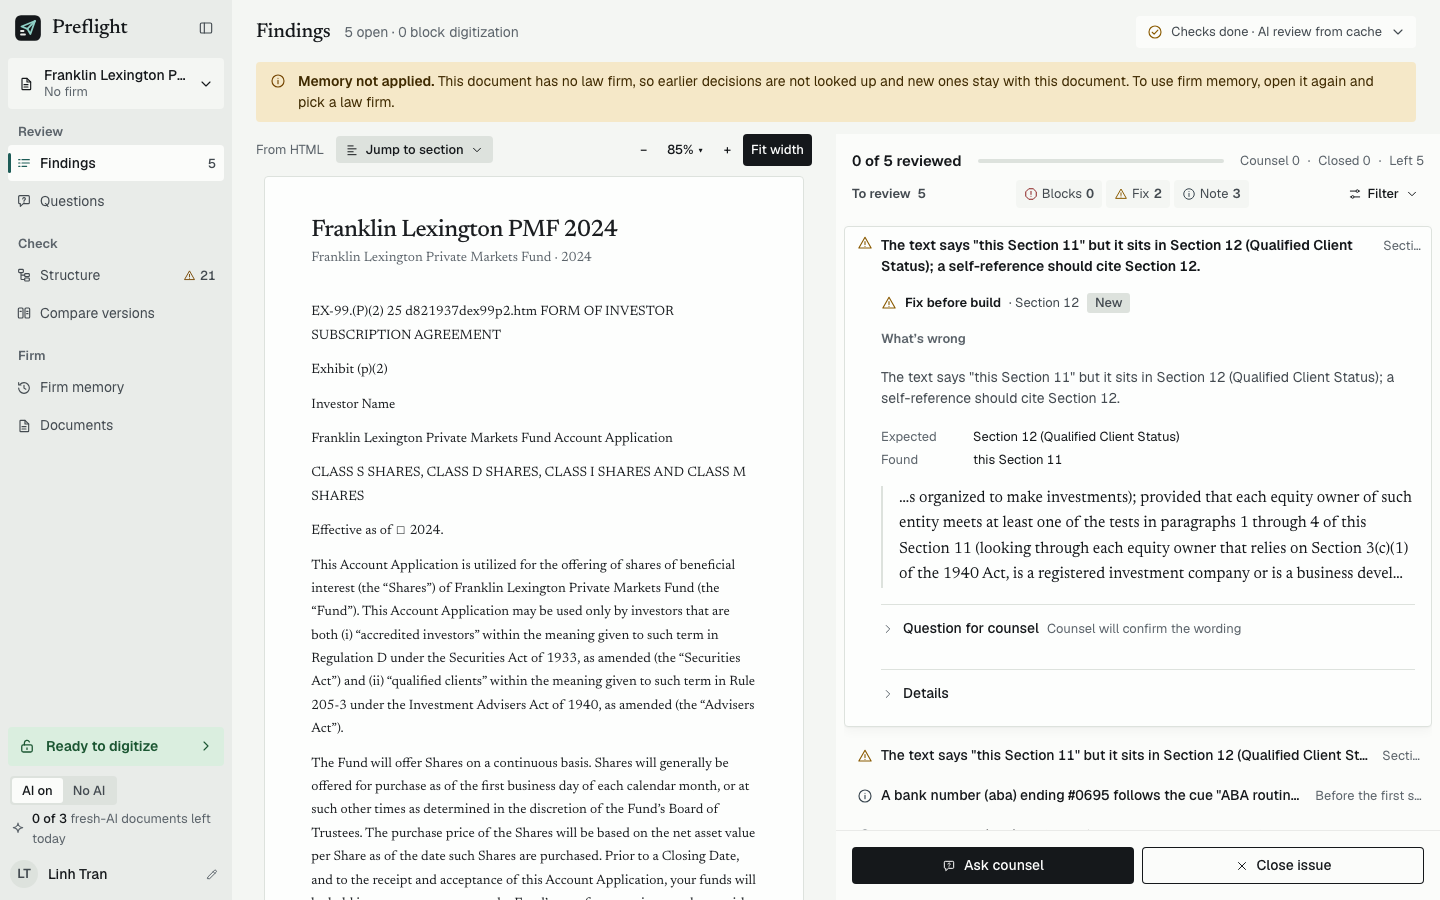
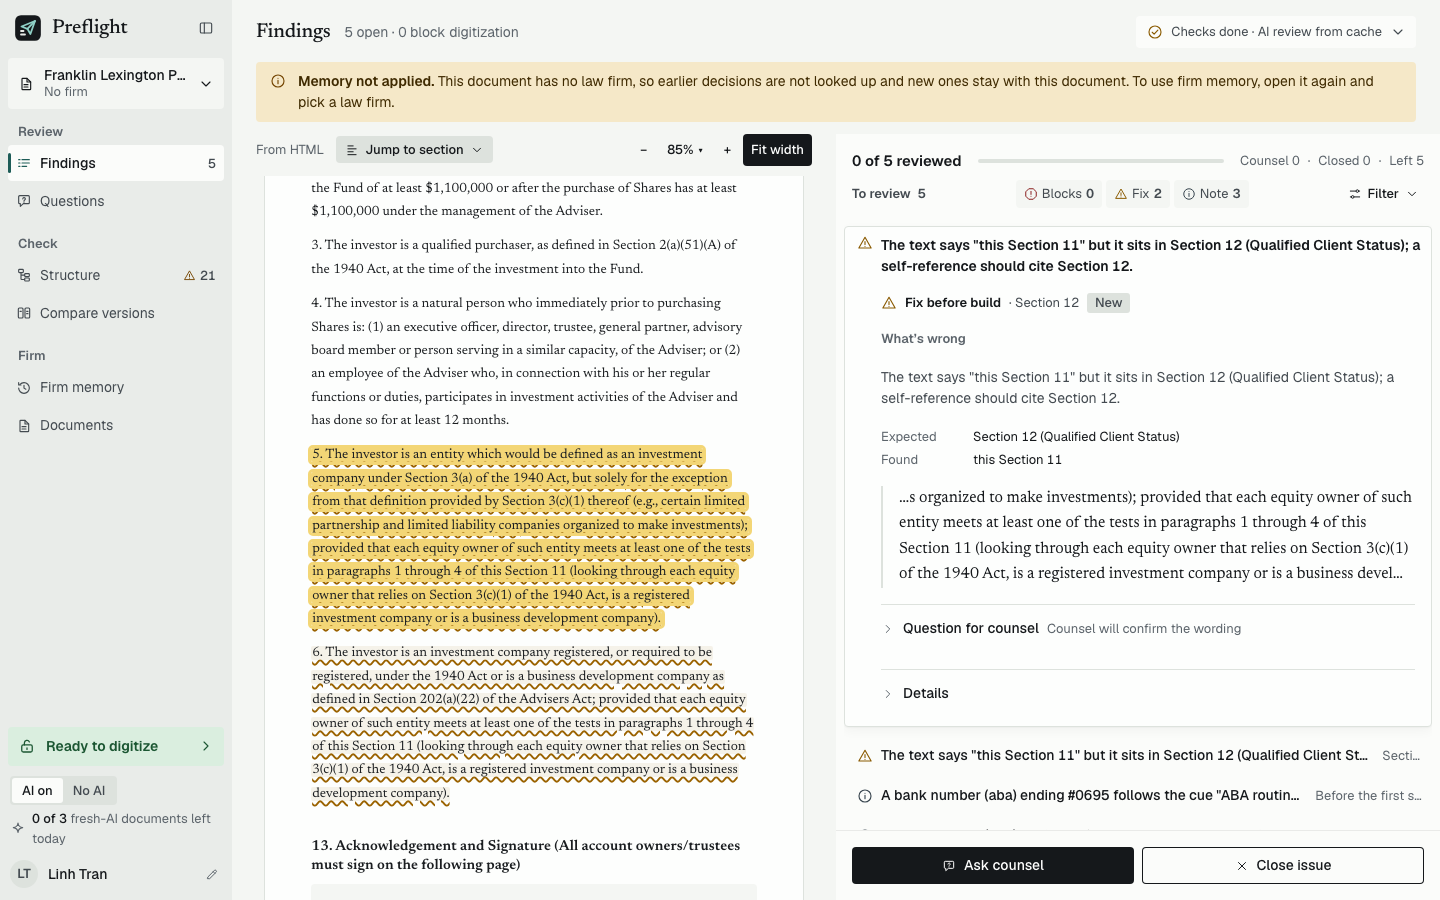
process: findings v2 open-row location live (493f2501)

Changed region(s): [[0.1875, 0.1867, 0.5312, 1.0], [0.5938, 0.28, 0.8438, 0.3111], [0.9375, 0.2489, 1.0, 0.28]]

diff --git a/process/context/all-context.md b/process/context/all-context.md
@@ -1,6 +1,6 @@
 # aduin-transaction - All Context
 
-Last updated: 2026-10-18 (Findings v2 85% fit width, live f54aa9f6; earlier: Findings v2 fit width fix, live cd06402a; earlier: Findings v2 design polish, live d6f88c56; earlier: Findings v2 closeout, live 7db9e602; earlier: Variance Management program closeout, live d9aaddd9; earlier: ai-review-stream-dedup UPDATE PROCESS, live 8a82ead2; earlier: Intake post-closeout fix 8db9245, Variance Phase 01 UPDATE PROCESS)
+Last updated: 2026-10-18 (Findings v2 open-row location, live 493f2501; earlier: Findings v2 85% fit width, live f54aa9f6; earlier: Findings v2 fit width fix, live cd06402a; earlier: Findings v2 design polish, live d6f88c56; earlier: Findings v2 closeout, live 7db9e602; earlier: Variance Management program closeout, live d9aaddd9; earlier: ai-review-stream-dedup UPDATE PROCESS, live 8a82ead2; earlier: Intake post-closeout fix 8db9245, Variance Phase 01 UPDATE PROCESS)
 
 This file is the root context entrypoint for the repo.
 
@@ -24,7 +24,7 @@ Target user: Anduin's Digitization Service Analyst. Deliverables: live demo, REA
 
 Domain knowledge, defect taxonomy, competitors and product decisions: `process/context/product-domain.md`.
 
-**Live demo (program COMPLETE, 17-10-26):** https://aduin-transaction-web.giathaowork.workers.dev (Worker `aduin-transaction-web`, version `f54aa9f6-111e-4e4d-9c2f-5796f2469a65` (18-10-26, Findings v2 85% fit width + long-string wrap, web assets from main 6244fb7 + 6ee7195; Worker code and D1 unchanged); rollback chain `cd06402a` (fit width fix, 8fcd893) -> `d6f88c56` (design polish, 2df83fe) -> `7db9e602` (Findings v2, 4c39a5a) -> `d9aaddd9` (Variance, schema 6) -> `8a82ead2` (write-incompatible with schema 6, do not use) -> `b04f1a8c` -> `3d2c7301` -> `cde74507` -> `328ca295` -> `09e7a579` -> `47d98295` -> `23612b12`; `ecb11588` failed live check and was rolled back, never use). Real D1 `aduin-transaction-db` (migrations 0001-0005, demo seed), Turnstile widget live, enforced CSP and security headers, `/api/health` no-store. Findings render in about 1 s without waiting for Turnstile. AI and OCR need a Turnstile token (a human in a real browser; automated Chromium got one automatically on 18-10-26 but not in earlier runs), so the live AI/OCR sweep, AC51 echo and D4 burst are operator-run residuals in backlog. **Fund Package Intake (program COMPLETE with known gaps, 17-10-26; feature folder `process/features/fund-package-intake/`):** the Upload modal takes a whole package (up to 12 files, 40 MB), detects each file's type and role with a stated reason, asks the analyst to confirm unsure ones, resolves outside references ("LPA", "Annex F", W-8BEN-E) against the package, stops false undefined-term findings when the LPA defines the term, shows per-check coverage next to the gate, and puts one "For the GP" request for every missing document in Questions. No new screens. 13 detectors / 15 issue classes plus package-level checks (references, cross-document terms, coverage). Live AI/OCR spend so far: $0 (Intake made 0 model calls). Deploy rules and recipe: `process/context/worker/all-worker.md`.
+**Live demo (program COMPLETE, 17-10-26):** https://aduin-transaction-web.giathaowork.workers.dev (Worker `aduin-transaction-web`, version `493f2501-8920-43b5-95fd-e0878877ab1f` (18-10-26, Findings v2 open row hides its location, web assets from main b00241f; Worker code and D1 unchanged); rollback chain `f54aa9f6` (85% fit width, 6244fb7 + 6ee7195) -> `cd06402a` (fit width fix, 8fcd893) -> `d6f88c56` (design polish, 2df83fe) -> `7db9e602` (Findings v2, 4c39a5a) -> `d9aaddd9` (Variance, schema 6) -> `8a82ead2` (write-incompatible with schema 6, do not use) -> `b04f1a8c` -> `3d2c7301` -> `cde74507` -> `328ca295` -> `09e7a579` -> `47d98295` -> `23612b12`; `ecb11588` failed live check and was rolled back, never use). Real D1 `aduin-transaction-db` (migrations 0001-0005, demo seed), Turnstile widget live, enforced CSP and security headers, `/api/health` no-store. Findings render in about 1 s without waiting for Turnstile. AI and OCR need a Turnstile token (a human in a real browser; automated Chromium got one automatically on 18-10-26 but not in earlier runs), so the live AI/OCR sweep, AC51 echo and D4 burst are operator-run residuals in backlog. **Fund Package Intake (program COMPLETE with known gaps, 17-10-26; feature folder `process/features/fund-package-intake/`):** the Upload modal takes a whole package (up to 12 files, 40 MB), detects each file's type and role with a stated reason, asks the analyst to confirm unsure ones, resolves outside references ("LPA", "Annex F", W-8BEN-E) against the package, stops false undefined-term findings when the LPA defines the term, shows per-check coverage next to the gate, and puts one "For the GP" request for every missing document in Questions. No new screens. 13 detectors / 15 issue classes plus package-level checks (references, cross-document terms, coverage). Live AI/OCR spend so far: $0 (Intake made 0 model calls). Deploy rules and recipe: `process/context/worker/all-worker.md`.
 
 ---
 
@@ -258,7 +258,7 @@ Resolved: persistence is D1 (real `aduin-transaction-db`, live); Turnstile is li
 - **Variance program (feature `variance-management`, COMPLETE with known gaps, 18-10-26):** all 5 phases VERIFIED and LIVE (see next bullet); core engine in `packages/core/src/variance/` (`process/context/engine/all-engine.md`).
 - **Program status:** all phases are DONE (00-07, 08, 08b, 09, 10); Milestone 1 closed and live. No further phase is planned. Fund Package Intake (4 phases, `process/features/fund-package-intake/`) is also COMPLETE and live; its folder stays in `active/` until the operator residuals run. Test counts after Intake: core 3084 (+3 skip), web unit 298 (+3 from intake fix 8db9245), preview e2e 217 (+1 skip), stack-memory 11, worker 526, scripts 162.
 - **Variance Management program (`process/features/variance-management/`, COMPLETE with known gaps, 18-10-26):** LIVE as Worker `d9aaddd9-a62f-4850-8ff2-89889c8ef652` (workers.dev only; D1 migration `0006_variance.sql` applied, `schema_version` 6; Time Travel bookmark `0000003e-00000000-00005107-13e12919a05a2c9178a343de17daef4e`). Variance lives inside the existing Findings and Questions screens (Changes segment, change rows with owner chip, baseline control, cosmetic groups, per-owner Questions tabs, answer intent and scope, R-01 regression check, gate counts changes); no new screens. All AC-V1 to AC-V20 met by automated gates; live write path of AC-V14/V16, the live probe re-run and a manual keyboard pass are operator residuals. Counts at merged main 0c6312e: core 3190 (+3 skip), worker 608, web unit 518, scripts 183, preview e2e 242 (+1 skip), stack-memory 12. Live AI calls for the feature: 0. **Rollback caveat:** after 0006 the previous Worker `8a82ead2` refuses memory writes (it pins schema 5), so rollback means roll forward or D1 restore; chain `d9aaddd9` -> `8a82ead2` (write-incompatible) -> `b04f1a8c` -> `3d2c7301`. Program report: `process/features/variance-management/active/variance-mvp_17-10-26/variance-mvp_REPORT_17-10-26.md` (folder stays in `active/` until operator residuals run). Details: `process/context/worker/all-worker.md`, `process/context/tests/all-tests.md`, `process/context/ui/all-ui.md`.
-- **Findings v2 (`process/features/findings-v2/`, COMPLETE with known gaps, 18-10-26):** LIVE as Worker `f54aa9f6` (assets only, 85% fit width 6244fb7 + 6ee7195; rollback `cd06402a`, then `d6f88c56`, `7db9e602`, `d9aaddd9`; `ecb11588` failed, never use). The Findings panel is now `apps/web/src/features/review/v2` plus `features/review/zoom` and `styles/findings-v2.css` (sticky two-button bar, reason modal, accordion groups with progress, resizable panel, document zoom, J/K/C/X shortcuts, outcome toast with Undo). Phase A (9e866f2, 7a0d172, 597c9cf) and Phase B (9427237 .. 4c39a5a) VERIFIED; Phase C (dedupe) DROPPED, D11 descoped, D13 backlog. Counts at 6ee7195: web unit 547, preview e2e 263 (+1 opt-in skip), stack-memory 12. Closeout: `process/features/findings-v2/completed/findings-v2_18-10-26/findings-v2_REPORT_18-10-26.md`; follow-ups in `process/features/findings-v2/backlog/`. Details: `process/context/ui/all-ui.md`, `process/context/tests/all-tests.md`.
+- **Findings v2 (`process/features/findings-v2/`, COMPLETE with known gaps, 18-10-26):** LIVE as Worker `493f2501` (assets only, open-row location b00241f on top of 85% fit width 6244fb7 + 6ee7195; rollback `f54aa9f6`, then `cd06402a`, then `d6f88c56`, `7db9e602`, `d9aaddd9`; `ecb11588` failed, never use). The Findings panel is now `apps/web/src/features/review/v2` plus `features/review/zoom` and `styles/findings-v2.css` (sticky two-button bar, reason modal, accordion groups with progress, resizable panel, document zoom, J/K/C/X shortcuts, outcome toast with Undo). Phase A (9e866f2, 7a0d172, 597c9cf) and Phase B (9427237 .. 4c39a5a) VERIFIED; Phase C (dedupe) DROPPED, D11 descoped, D13 backlog. Counts at 6ee7195: web unit 547, preview e2e 263 (+1 opt-in skip), stack-memory 12. Closeout: `process/features/findings-v2/completed/findings-v2_18-10-26/findings-v2_REPORT_18-10-26.md`; follow-ups in `process/features/findings-v2/backlog/`. Details: `process/context/ui/all-ui.md`, `process/context/tests/all-tests.md`.
 - **Operator run (residual R2, backlog `process/general-plans/backlog/phase10-*_NOTE_17-10-26.md`):** with a human in a real browser, run the AC51 `rules_hash8` echo, the live AI/OCR sweep (max 3 AI per UTC day), AI timing at `max_tokens` 10000, and the D4 `rows_written` burst. Also capture demo screenshots 13-memory and 14-audit and record a manual keyboard pass. Residual R4: Turnstile iframe CSP with a human-solved challenge is unevidenced. Residual R-CSP-STYLE: `style-src 'unsafe-inline'` for Radix. Worker CPU p99 16 ms is above the 10 ms Free limit (observation).
 - **Open questions:** does Docxodus WASM run on Cloudflare Workers (not needed for the shipped DOCX path)? Which free OpenRouter vision model is good enough for live OCR (unproven, R2)? OpenRouter credits are not topped up; the paid fallback is unavailable.
 - **Deferred:** the missing-target cross-reference detector (feasibility INCONCLUSIVE, `process/general-plans/backlog/missing-target-xref_17-10-26/`).

diff --git a/process/context/worker/all-worker.md b/process/context/worker/all-worker.md
@@ -12,7 +12,7 @@ metadata:
 
 # aduin-transaction - Worker Context
 
-Last updated: 2026-10-18 (Findings v2 85% fit width deploy f54aa9f6; earlier: Findings v2 fit width deploy cd06402a; earlier: Findings v2 design polish deploy d6f88c56; earlier: Findings v2 web-assets deploy 7db9e602; earlier: Variance P05 deploy d9aaddd9 + schema-bump rollback lesson; earlier: ai-review-stream-dedup EXECUTE: streamed upstream + timeout refund, code HEAD 685574d; earlier: Phase 10 UPDATE PROCESS, f0d924b)
+Last updated: 2026-10-18 (Findings v2 open-row location deploy 493f2501; earlier: Findings v2 85% fit width deploy f54aa9f6; earlier: Findings v2 fit width deploy cd06402a; earlier: Findings v2 design polish deploy d6f88c56; earlier: Findings v2 web-assets deploy 7db9e602; earlier: Variance P05 deploy d9aaddd9 + schema-bump rollback lesson; earlier: ai-review-stream-dedup EXECUTE: streamed upstream + timeout refund, code HEAD 685574d; earlier: Phase 10 UPDATE PROCESS, f0d924b)
 
 Entrypoint for the `worker/` context group (one doc for now). Read this before touching `apps/worker`, `/api/*`, limits, or a deploy.
 
@@ -90,7 +90,7 @@ Set on the live Worker: `COOKIE_SIGNING_KEYS` (JSON map kid to key), `COOKIE_SIG
 
 ## Deploy Rules And Redeploy Recipe
 
-- Live: https://aduin-transaction-web.giathaowork.workers.dev (workers.dev subdomain `giathaowork`; **active version `f54aa9f6-111e-4e4d-9c2f-5796f2469a65` since 18-10-26 (Findings v2 85% fit width + long-string wrap, web assets from main 6244fb7 + 6ee7195; assets only; deploy preflight 13/13; `ecb11588` failed live check and was rolled back, never use). Its rollback target is `cd06402a-93df-499e-8298-560e4c243331` (fit width fix, 8fcd893; assets only), then `d6f88c56-cbc8-42b6-96cc-f054ba0d0a83` (design polish, 2df83fe; assets only), then `7db9e602-a688-4559-ae2d-d69892c873be` (Findings v2 web assets from main 4c39a5a; assets only, Worker code, migrations and D1 unchanged), then `d9aaddd9-a62f-4850-8ff2-89889c8ef652` (Variance P01-P05 plus the merged ai-stream-dedup content, code 566416e, migrations 0001-0006, `/api/memory/health` schema 6); below, `8a82ead2` is the previous version and must NOT be used as an automatic rollback target (see Schema-bump rollback rule)**; previous active version `8a82ead2-07ed-4b06-ad60-226d3f4734c8` (18-10-26, ai-review-stream-dedup: streamed upstream with 60 s idle timeout and 420 s ceiling, visitor refund on timeout, no duplicate AI findings; built from deploy branch `deploy/ai-stream-dedup` = hotfix `b04f1a8c` base plus 4 cherry-picks, migrations still 0001-0005); rollback chain `b04f1a8c-41f5-4c20-92dc-196d6e7d252a` (hotfix intake-readiness message, a4d7a34 + c7fcb17) -> `3d2c7301-a4a5-487c-bd7d-2f2c0800be6f` (Fund Package Intake web assets from main a4d7a34; Worker code 994ea54 unchanged by Intake, 17-10-26) -> `cde74507-7b92-4e43-99fa-754de2c5cf3b` -> `328ca295-d5da-487e-a063-843b0c7c86db` -> `09e7a579` -> `47d98295-c583-4dc0-9f96-f9e161c8cf35` -> `23612b12-51c7-4d75-a324-f4f2f6392ba8` (render-first fix af59da6; older: `67c796ff` first go-live with the Turnstile-blocking render bug, `4325e4e4`). Live checks (re-run on 3d2c7301: health no-store, CSP byte-identical to `_headers`, stack slice, package smoke 8/8): CSP and security headers on `/`, `/api/health` 200 `no-store`, `/api/memory/health` schema 5, stack smoke 1 passed (zero upstream AI/OCR calls), findings in about 1 s on #5/#3/#1 with no Turnstile overlay and no `/api/session` call. Phase 04b, 05, 06 and 10 code is deployed; AI and OCR need a Turnstile token. Earlier runs found automated Chromium got none (residual R2), but on 18-10-26 a Playwright Chromium upload against 8a82ead2 was issued a token automatically (widget flexible mode) and the full AI review ran (/api/ai 178.5 s, 8 AI findings, 0 duplicates of deterministic findings), so a human is no longer strictly required; treat it as run-dependent. Live worker CPU p99 before this deploy was 35.0 ms (24 h, p50 4.1 ms); CPU after a streamed review is not yet measured (backlog).
+- Live: https://aduin-transaction-web.giathaowork.workers.dev (workers.dev subdomain `giathaowork`; **active version `493f2501-8920-43b5-95fd-e0878877ab1f` since 18-10-26 (Findings v2 open row hides its location, web assets from main b00241f; rollback `f54aa9f6-111e-4e4d-9c2f-5796f2469a65` (85% fit width + long-string wrap, 6244fb7 + 6ee7195); assets only; deploy preflight 13/13; `ecb11588` failed live check and was rolled back, never use). After f54aa9f6 the chain continues with `cd06402a-93df-499e-8298-560e4c243331` (fit width fix, 8fcd893; assets only), then `d6f88c56-cbc8-42b6-96cc-f054ba0d0a83` (design polish, 2df83fe; assets only), then `7db9e602-a688-4559-ae2d-d69892c873be` (Findings v2 web assets from main 4c39a5a; assets only, Worker code, migrations and D1 unchanged), then `d9aaddd9-a62f-4850-8ff2-89889c8ef652` (Variance P01-P05 plus the merged ai-stream-dedup content, code 566416e, migrations 0001-0006, `/api/memory/health` schema 6); below, `8a82ead2` is the previous version and must NOT be used as an automatic rollback target (see Schema-bump rollback rule)**; previous active version `8a82ead2-07ed-4b06-ad60-226d3f4734c8` (18-10-26, ai-review-stream-dedup: streamed upstream with 60 s idle timeout and 420 s ceiling, visitor refund on timeout, no duplicate AI findings; built from deploy branch `deploy/ai-stream-dedup` = hotfix `b04f1a8c` base plus 4 cherry-picks, migrations still 0001-0005); rollback chain `b04f1a8c-41f5-4c20-92dc-196d6e7d252a` (hotfix intake-readiness message, a4d7a34 + c7fcb17) -> `3d2c7301-a4a5-487c-bd7d-2f2c0800be6f` (Fund Package Intake web assets from main a4d7a34; Worker code 994ea54 unchanged by Intake, 17-10-26) -> `cde74507-7b92-4e43-99fa-754de2c5cf3b` -> `328ca295-d5da-487e-a063-843b0c7c86db` -> `09e7a579` -> `47d98295-c583-4dc0-9f96-f9e161c8cf35` -> `23612b12-51c7-4d75-a324-f4f2f6392ba8` (render-first fix af59da6; older: `67c796ff` first go-live with the Turnstile-blocking render bug, `4325e4e4`). Live checks (re-run on 3d2c7301: health no-store, CSP byte-identical to `_headers`, stack slice, package smoke 8/8): CSP and security headers on `/`, `/api/health` 200 `no-store`, `/api/memory/health` schema 5, stack smoke 1 passed (zero upstream AI/OCR calls), findings in about 1 s on #5/#3/#1 with no Turnstile overlay and no `/api/session` call. Phase 04b, 05, 06 and 10 code is deployed; AI and OCR need a Turnstile token. Earlier runs found automated Chromium got none (residual R2), but on 18-10-26 a Playwright Chromium upload against 8a82ead2 was issued a token automatically (widget flexible mode) and the full AI review ran (/api/ai 178.5 s, 8 AI findings, 0 duplicates of deterministic findings), so a human is no longer strictly required; treat it as run-dependent. Live worker CPU p99 before this deploy was 35.0 ms (24 h, p50 4.1 ms); CPU after a streamed review is not yet measured (backlog).
 - **Schema-bump rollback rule (incident 18-10-26):** after a migration that bumps `app_meta.schema_version`, the previous Worker version is write-incompatible. `EXPECTED_SCHEMA_VERSION` is pinned in `apps/worker/src/memory/health.ts` and `ctx.ts` refuses memory writes on a mismatch, so rolling the Worker back while keeping the migration returns 503 on every memory write (reads still work). "Roll the Worker back, keep the migration" is NOT safe. After such a deploy, a failed post-deploy check must be resolved by rolling FORWARD (fix and redeploy, or `wrangler rollback` to the new version again) or by the user restoring D1 from the Time Travel bookmark taken before the migration. Plans must never name the pre-migration version as an automatic rollback target. Variance P05 saw about 3.5 min of write outage (20:28:35-20:32:11 UTC) before rolling forward. Always take a Time Travel bookmark and a SQL export before a non-idempotent migration. Probe failures that are harness bugs (not product) do not justify a rollback once the schema has moved.
 - Hotfix pattern: when main holds undeployed work that needs a migration, build the hotfix from the live source commit plus a cherry-pick in a separate worktree; record the branch.
 - Hard rules: only `aduin-transaction-*` names on workers.dev/pages.dev; never touch zone `itsjiathao.com`; no route or custom domain; Workers Free only; `git push` needs user OK. Run `pnpm guard:cf && pnpm secrets:scan` before every deploy.

diff --git a/process/features/findings-v2/completed/findings-v2_18-10-26/findings-v2-phase-b_REPORT_18-10-26.md b/process/features/findings-v2/completed/findings-v2_18-10-26/findings-v2-phase-b_REPORT_18-10-26.md
@@ -256,3 +256,10 @@ Gates: web vitest 73 files / 544 tests; typecheck clean; findings-v2 e2e 11/11; 
 - Live checks: `/api/health` 200 `cache-control: no-store`; title "Preflight". All 16 HTML samples in the live manifest (01-08, 10-13, vh-fund-I, II, III, III-appendix-c; scan 09 skipped) at 1024x768 and 1440x900 under default Fit width: 32/32 pass. Readout 85% in every run; `.docscroll` scrollWidth = clientWidth (436 at 1024, 604 at 1440); docscroll right = panel left (492 / 836); body text 13.6 px. Sample #1: findings-column + action-counsel present, findings in under 0.1 s after pick with no Turnstile wait. 0 console errors, 0 AI/OCR calls.
 - Screenshots (sample #1, Fit width, first finding open): `design-probe/live-1440.png`, `design-probe/live-1024.png`; sample 02 at 1024: `design-probe/live-1024-sample02.png`.
 - Rollback: not needed.
+
+### Open-row location deploy (18-10-26)
+- Commits: `b00241f` (CSS `.fv2-rowb[aria-expanded='true'] > .fv2-loc { display: none }`: the open row hides its right-aligned location; collapsed rows keep it) + `123ab02` (findings-v2 "design polish" e2e now clicks a collapsed row open and asserts its finding-loc is hidden while another collapsed row's finding-loc stays visible; before this, the check was skipped when no row was open). Static assets only; workers.dev only.
+- Gates: web typecheck 0, web vitest 547 (73 files), findings-v2 e2e 21, full preview e2e 263 + 1 skip.
+- New live version: `493f2501-8920-43b5-95fd-e0878877ab1f` (100%). Rollback target: `f54aa9f6-111e-4e4d-9c2f-5796f2469a65` (re-checked live right before deploy). Pre-deploy: guard:cf OK, secrets:scan OK, site key from the live bundle (1 match, never printed), plain web bundle right before deploy, deploy:preflight 13/13.
+- Live checks: `/api/health` 200 no-store; title "Preflight"; all 16 HTML samples at 1024x768 and 1440x900: 32/32 pass (85% readout, no sideways scroll, nothing under the panel, body 13.6 px), 0 console errors, 0 AI/OCR calls. Sample #1 at both widths: opened row aria-expanded true, its finding-loc not visible; a collapsed row's finding-loc visible. Screenshots refreshed: `design-probe/live-1440.png`, `live-1024.png`, `live-1024-sample02.png`.
+- Rollback: not needed.
